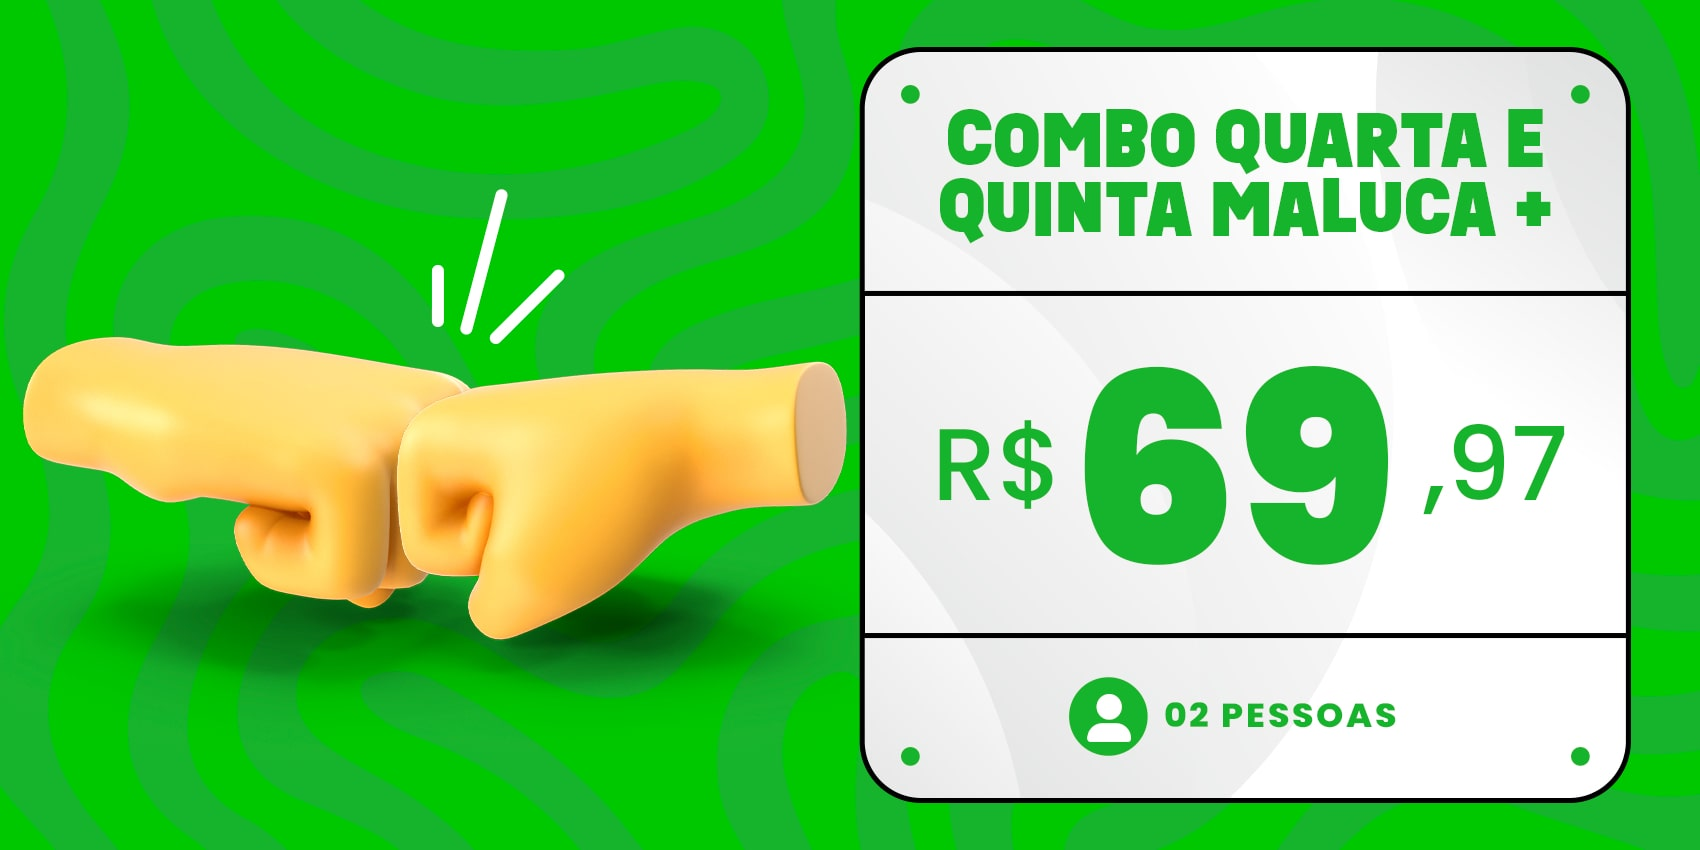
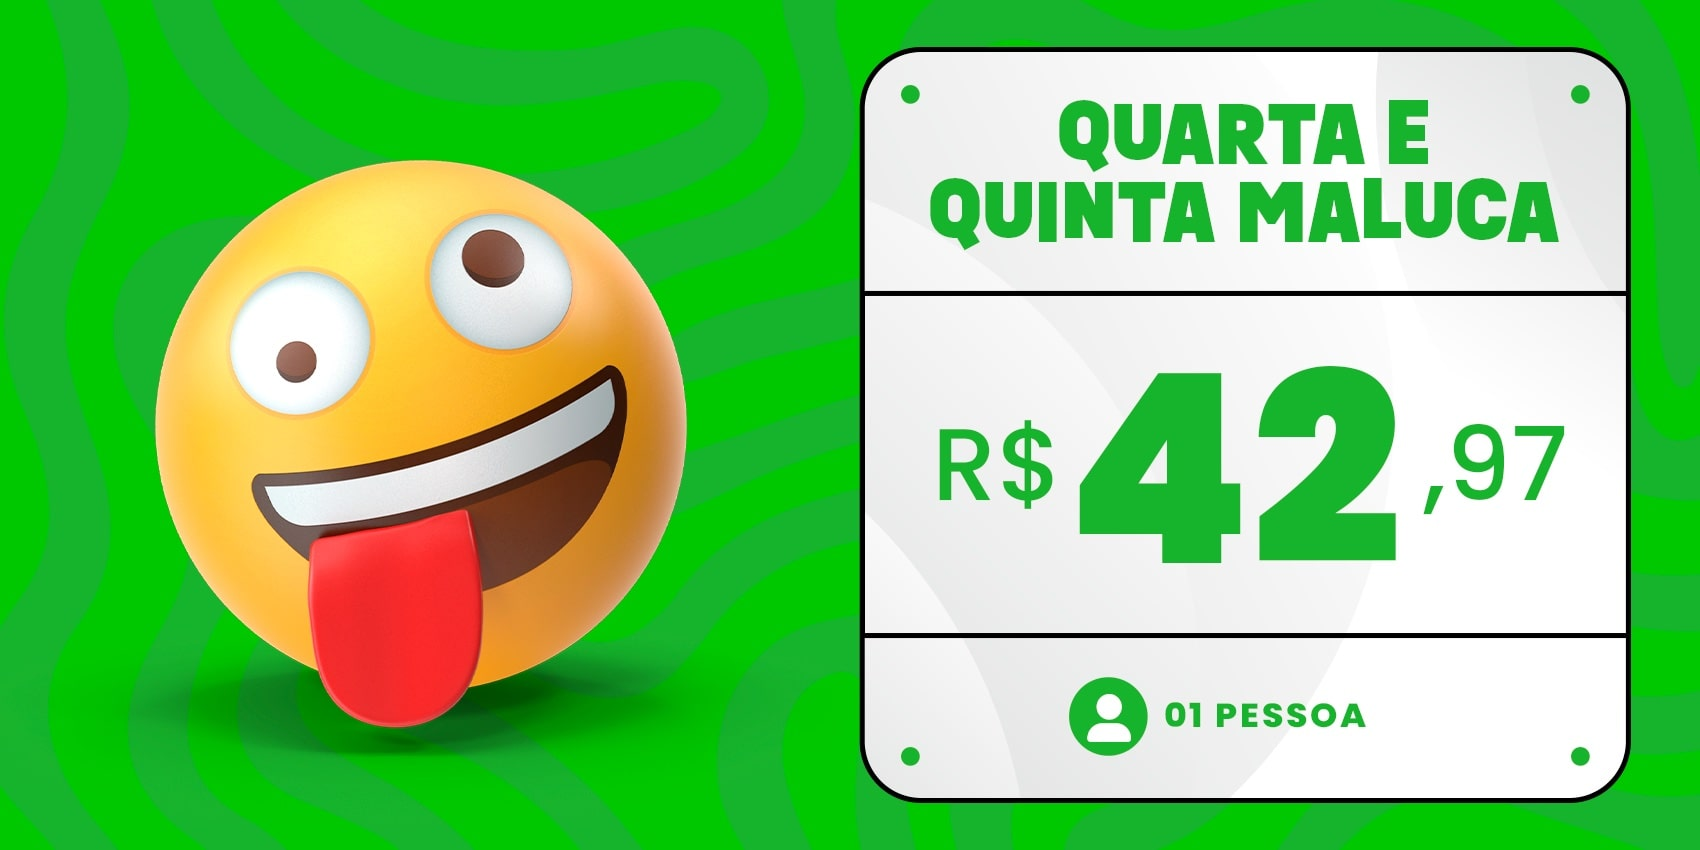
atualização qq maluca #2

diff --git a/src/pages/passaportes/index.tsx b/src/pages/passaportes/index.tsx
@@ -22,6 +22,7 @@ import ComboSuperSegunda from '@/public/images/tickets/combo-super-segunda.jpeg'
 import PassaporteAntecipado from '@/public/images/tickets/passaporte-antecipado.jpg'
 import PassaporteIndividual from '@/public/images/tickets/passaporte-individual.jpg'
 import PassaporteSuperSegunda from '@/public/images/tickets/passaporte-super-segunda.jpeg'
+import QuartaQuintaMalucaCombo from '@/public/images/tickets/quarta-quinta-maluca-combo.jpg'
 import QuartaQuintaMaluca from '@/public/images/tickets/quarta-quinta-maluca.jpg'
 import SuperAntecipado from '@/public/images/tickets/super-antecipado.jpg'
 import Head from 'next/head'
@@ -78,15 +79,29 @@ export default function PassaportsPage() {
             {nowSP.getDay() >= 2 && nowSP.getDay() <= 4 && (
               <>
                 <Ticket
-                  id={20}
-                  price={6997}
+                  id={21}
+                  price={4297}
                   quantity={1}
-                  reference={6997}
+                  reference={4297}
                   banner={QuartaQuintaMaluca}
                   name="Quarta e Quinta Maluca"
                   description={
                     <p className={'mt-2'}>
                       1 passaporte válido durante 30 dias, exclusivo para utilização nas quartas e
+                      quintas-feiras, dentro do horário de funcionamento do parque.
+                    </p>
+                  }
+                />
+                <Ticket
+                  id={20}
+                  price={6997}
+                  quantity={2}
+                  reference={6997}
+                  banner={QuartaQuintaMalucaCombo}
+                  name="Quarta e Quinta Maluca"
+                  description={
+                    <p className={'mt-2'}>
+                      2 passaportes válido durante 30 dias, exclusivo para utilização nas quartas e
                       quintas-feiras, dentro do horário de funcionamento do parque.
                     </p>
                   }

diff --git a/src/components/organisms/Tickets.tsx b/src/components/organisms/Tickets.tsx
@@ -7,6 +7,7 @@ import ComboSuperSegunda from '@/public/images/tickets/combo-super-segunda.jpeg'
 import PassaporteAntecipado from '@/public/images/tickets/passaporte-antecipado.jpg'
 import PassaporteIndividual from '@/public/images/tickets/passaporte-individual.jpg'
 import PassaporteSuperSegunda from '@/public/images/tickets/passaporte-super-segunda.jpeg'
+import QuartaQuintaMalucaCombo from '@/public/images/tickets/quarta-quinta-maluca-combo.jpg'
 import QuartaQuintaMaluca from '@/public/images/tickets/quarta-quinta-maluca.jpg'
 import SuperAntecipado from '@/public/images/tickets/super-antecipado.jpg'
 import SwiperCore, { Autoplay, Navigation } from 'swiper'
@@ -69,15 +70,31 @@ export default function Tickets() {
         <>
           <SwiperSlide>
             <Ticket
-              id={20}
+              id={21}
               quantity={1}
-              price={6997}
-              reference={6997}
+              price={4297}
+              reference={4297}
               banner={QuartaQuintaMaluca}
               name="Quarta e Quinta Maluca"
               description={
                 <p className={'mt-2'}>
                   1 passaporte válido durante 30 dias, exclusivo para utilização nas quartas e
+                  quintas-feiras, dentro do horário de funcionamento do parque.
+                </p>
+              }
+            />
+          </SwiperSlide>
+          <SwiperSlide>
+            <Ticket
+              id={20}
+              quantity={2}
+              price={6997}
+              reference={4297}
+              banner={QuartaQuintaMalucaCombo}
+              name="Quarta e Quinta Maluca"
+              description={
+                <p className={'mt-2'}>
+                  2 passaportes válido durante 30 dias, exclusivo para utilização nas quartas e
                   quintas-feiras, dentro do horário de funcionamento do parque.
                 </p>
               }

diff --git a/README.md b/README.md
@@ -1,1 +1,3 @@
 # Nicolândia - Ecommerce
+
+Rodar yarn lint --fix quando não subir na vercel
